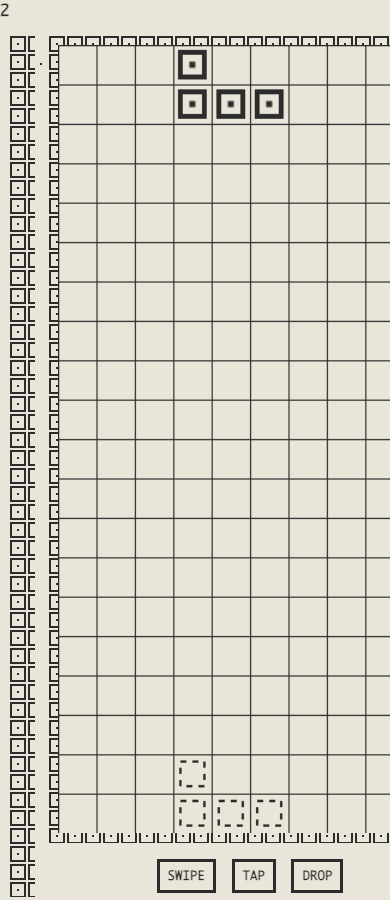
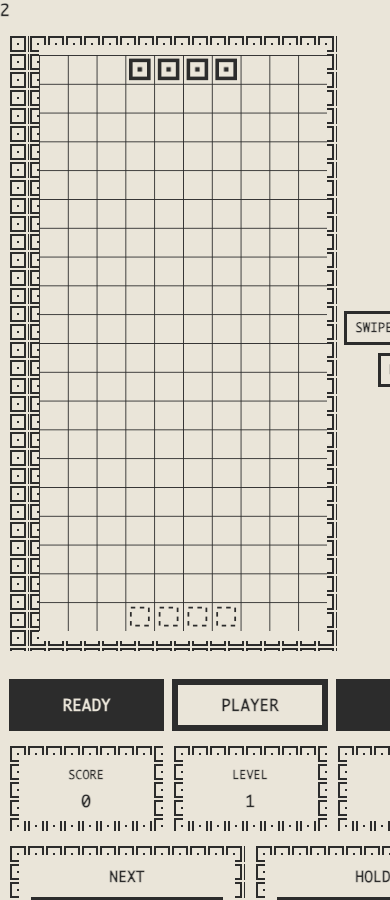
full vector design

Changed region(s): [[0.0, 0.0311, 1.0, 1.0]]

diff --git a/style.css b/style.css
@@ -84,13 +84,14 @@ select {
 .app-shell {
   position: relative;
   z-index: 1;
-  width: min(1040px, calc(100vw - 28px));
+  width: min(1120px, calc(100vw - 28px));
   min-height: 100vh;
   margin: 0 auto;
   display: grid;
-  grid-template-columns: minmax(310px, 440px) minmax(280px, 360px);
+  grid-template-columns: minmax(440px, 540px) minmax(280px, 360px);
   gap: 28px;
-  align-items: center;
+  align-items: stretch;
+  align-content: center;
   justify-content: center;
   padding: 28px 0;
 }
@@ -98,7 +99,11 @@ select {
 .game-area {
   position: relative;
   min-width: 0;
-  padding: 0 34px;
+  display: flex;
+  flex-direction: column;
+  align-items: center;
+  justify-content: center;
+  padding: 0 20px;
 }
 
 .game-area::before,
@@ -170,17 +175,24 @@ select {
 }
 
 .board-wrap {
-  width: min(100%, 404px);
+  width: auto;
+  height: min(100%, 1000px);
+  max-width: 100%;
   margin: 0 auto;
   padding: var(--border);
   overflow: hidden;
   aspect-ratio: 1 / 2;
+  display: flex;
+  align-items: center;
+  justify-content: center;
 }
 
 #gameCanvas {
   display: block;
-  width: 100%;
+  width: auto;
   height: 100%;
+  max-width: 100%;
+  aspect-ratio: 1 / 2;
   background: var(--bone);
   touch-action: none;
 }
@@ -376,6 +388,16 @@ select {
     order: 2;
   }
 
+  .board-wrap {
+    height: auto;
+    max-height: none;
+  }
+
+  #gameCanvas {
+    width: 100%;
+    height: auto;
+  }
+
   .title-block {
     grid-template-columns: repeat(3, 1fr);
   }
@@ -392,11 +414,11 @@ select {
 
 @media (max-width: 430px) {
   .game-area {
-    padding: 0 24px;
+    padding: 0 18px;
   }
 
   .board-wrap {
-    width: min(100%, calc(100vw - 132px));
+    width: min(100%, calc(100vw - 84px));
   }
 
   .game-area::before,
